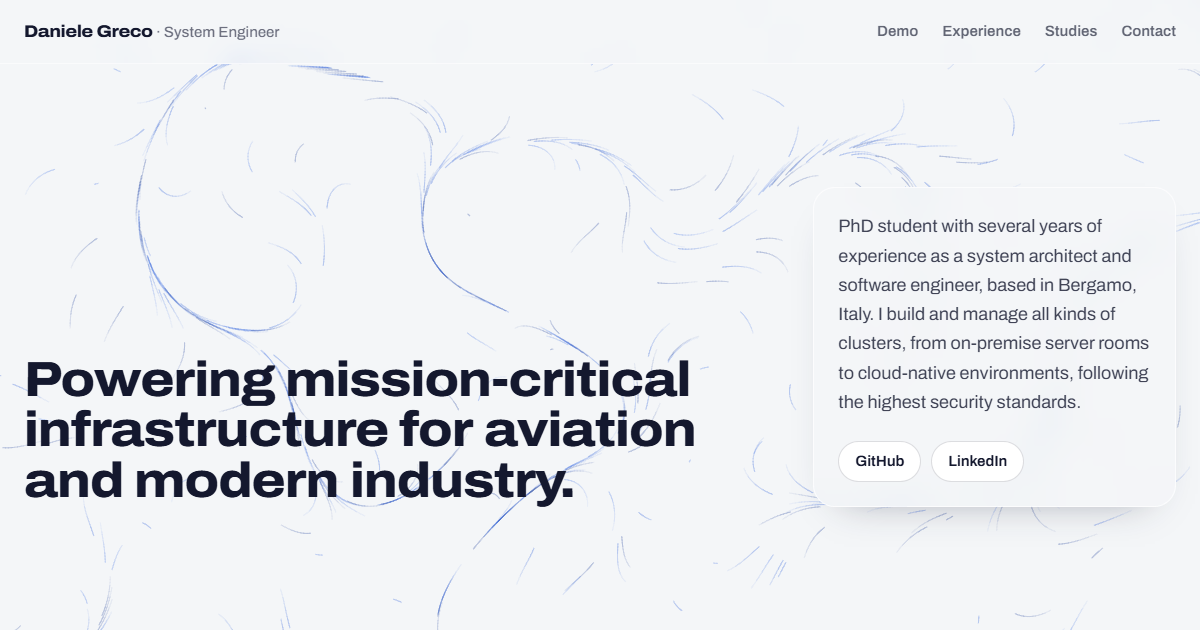
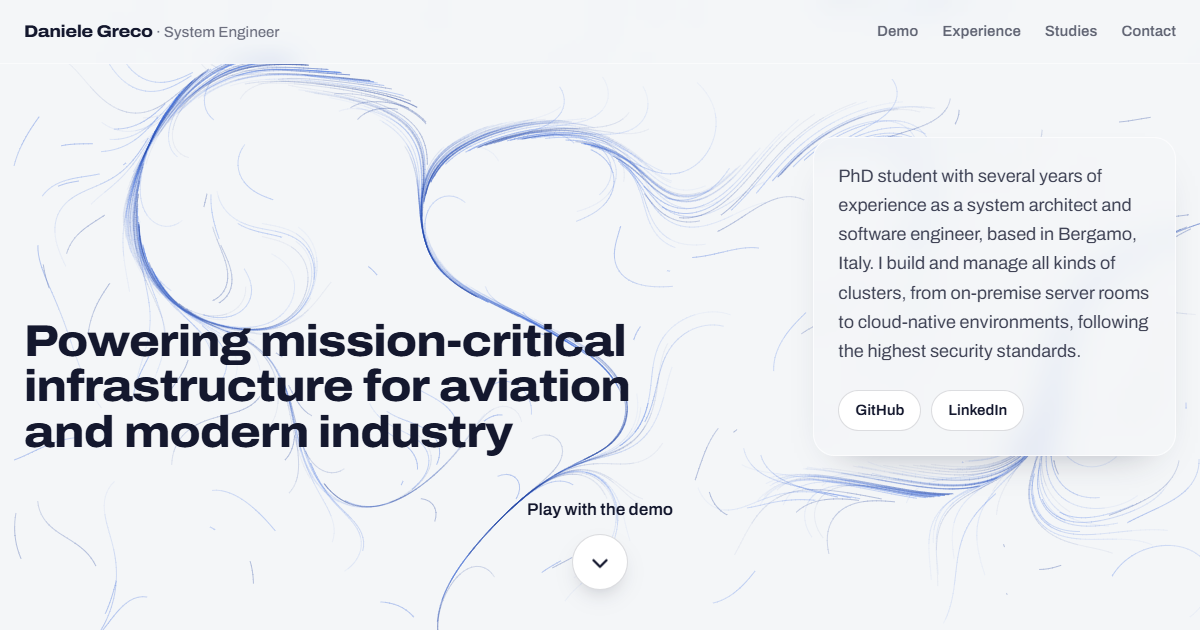
feat: longer background trails, durations and current roles highlighted
Strands now remember a point every 4 px travelled instead of every frame: tails are about four times longer for roughly 40% more drawing, still 60 fps on high-density screens. Experience entries show their duration, the flAi role is System architect, and the flAi and PhD rows are tinted with a blue bar as what I do now. The headline loses its final period and is a little smaller; the demo button is a little bigger.

diff --git a/src/scripts/backgrounds/flow.js b/src/scripts/backgrounds/flow.js
@@ -1,13 +1,15 @@
 // Thin strands following an invisible current: particles move along a noise flow field.
-// Each particle remembers its last positions and draws them as a tail that fades to nothing,
-// and the canvas is cleared every frame, so trails always disappear instead of piling up.
+// Each particle remembers a point every few pixels it travels (not every frame), so a long
+// tail costs few segments, and the tail fades to nothing. The canvas is cleared every frame,
+// so trails always disappear instead of piling up.
 // The pointer pulls the current towards it and turns it into a vortex.
 import { makeNoise } from './noise.js';
 import { runCanvas } from './loop.js';
 
 const noise = makeNoise(3);
-const TAIL = 28; // positions kept per particle
-const BANDS = 4; // the tail is drawn in bands, fainter towards its end
+const TAIL = 40; // points remembered per particle
+const STEP = 4; // px travelled between two remembered points
+const BANDS = 5; // the tail is drawn in bands, fainter towards its end
 const BAND = TAIL / BANDS;
 const RGB = ['35, 87, 214', '74, 120, 228', '31, 63, 153'];
 const GRAVITY = 320; // how far, in px, the pointer bends the current
@@ -15,22 +17,27 @@ const SPEED = 1.5;
 
 export function start(canvas) {
   let count = 0;
-  let xs = new Float32Array(0); // ring buffers: count * TAIL
+  let px = new Float32Array(0); // current position
+  let py = new Float32Array(0);
+  let xs = new Float32Array(0); // remembered points, ring buffers of TAIL per particle
   let ys = new Float32Array(0);
-  let head = new Uint16Array(0); // newest point of each particle
-  let filled = new Uint16Array(0); // valid points of each particle
+  let head = new Uint16Array(0); // newest remembered point
+  let filled = new Uint16Array(0); // how many remembered points are valid
   let age = new Float32Array(0);
   let life = new Float32Array(0);
-  let pull = new Float32Array(0); // how strongly the pointer is bending each particle, smoothed
+  let pull = new Float32Array(0); // how strongly the pointer bends each particle, smoothed
 
   function spawn(i, W, H) {
-    const o = i * TAIL;
-    xs[o] = Math.random() * W;
-    ys[o] = Math.random() * H;
+    const x = Math.random() * W;
+    const y = Math.random() * H;
+    px[i] = x;
+    py[i] = y;
+    xs[i * TAIL] = x;
+    ys[i * TAIL] = y;
     head[i] = 0;
     filled[i] = 1;
     age[i] = 0;
-    life[i] = 90 + Math.random() * 180;
+    life[i] = 200 + Math.random() * 300;
     pull[i] = 0;
   }
 
@@ -38,9 +45,8 @@ export function start(canvas) {
     const f = 1 / 420;
     const near = pointer && pointer.active > 0.001;
     for (let i = 0; i < count; i++) {
-      const o = i * TAIL;
-      const x = xs[o + head[i]];
-      const y = ys[o + head[i]];
+      const x = px[i];
+      const y = py[i];
       const angle = noise(x * f, y * f, t * 0.04) * Math.PI * 2;
       let vx = Math.cos(angle) * SPEED;
       let vy = Math.sin(angle) * SPEED;
@@ -48,7 +54,7 @@ export function start(canvas) {
       if (near) {
         const dx = x - pointer.x;
         const dy = y - pointer.y;
-        const d = Math.hypot(dx, dy) || 1;
+        const d = Math.sqrt(dx * dx + dy * dy) || 1;
         if (d < GRAVITY) {
           k = (1 - d / GRAVITY) ** 1.6 * pointer.active;
           // Around the pointer: swirl (perpendicular) plus a pull towards it.
@@ -64,10 +70,17 @@ export function start(canvas) {
         spawn(i, W, H);
         continue;
       }
-      head[i] = (head[i] + 1) % TAIL;
-      xs[o + head[i]] = nx;
-      ys[o + head[i]] = ny;
-      if (filled[i] < TAIL) filled[i] += 1;
+      px[i] = nx;
+      py[i] = ny;
+      const o = i * TAIL;
+      const lx = nx - xs[o + head[i]];
+      const ly = ny - ys[o + head[i]];
+      if (lx * lx + ly * ly >= STEP * STEP) {
+        head[i] = (head[i] + 1) % TAIL;
+        xs[o + head[i]] = nx;
+        ys[o + head[i]] = ny;
+        if (filled[i] < TAIL) filled[i] += 1;
+      }
     }
   }
 
@@ -77,16 +90,18 @@ export function start(canvas) {
     const paths = Array.from({ length: RGB.length * BANDS * 2 }, () => new Path2D());
     for (let i = 0; i < count; i++) {
       const n = filled[i];
-      if (n < 2) continue;
       const o = i * TAIL;
       const strong = pull[i] > 0.2 ? 1 : 0;
-      const base = ((i % RGB.length) * BANDS) * 2;
+      const base = (i % RGB.length) * BANDS * 2;
+      // From the current position back through the remembered points, newest first.
+      let path = paths[base + strong];
+      path.moveTo(px[i], py[i]);
       let idx = head[i];
-      let band = -1;
-      let path = null;
-      for (let j = 0; j < n - 1; j++) {
-        const b = Math.floor(j / BAND);
+      path.lineTo(xs[o + idx], ys[o + idx]);
+      let band = 0;
+      for (let j = 1; j < n; j++) {
         const prev = (idx - 1 + TAIL) % TAIL;
+        const b = Math.floor(j / BAND);
         if (b !== band) {
           band = b;
           path = paths[base + band * 2 + strong];
@@ -116,6 +131,8 @@ export function start(canvas) {
     maxDpr: 1,
     setup(ctx, W, H) {
       count = Math.round((W * H) / 1600);
+      px = new Float32Array(count);
+      py = new Float32Array(count);
       xs = new Float32Array(count * TAIL);
       ys = new Float32Array(count * TAIL);
       head = new Uint16Array(count);
@@ -123,18 +140,13 @@ export function start(canvas) {
       age = new Float32Array(count);
       life = new Float32Array(count);
       pull = new Float32Array(count);
-      for (let i = 0; i < count; i++) {
-        spawn(i, W, H);
-        age[i] = Math.random() * life[i];
-      }
+      for (let i = 0; i < count; i++) spawn(i, W, H);
+      // Start with tails already grown, so the first frames are not a field of dots.
+      for (let n = 0; n < TAIL * 3; n++) advance(0, W, H, null);
     },
     frame(ctx, t, W, H, dpr, still, pointer) {
       ctx.setTransform(dpr, 0, 0, dpr, 0, 0);
-      if (still) {
-        for (let n = 0; n < TAIL; n++) advance(20, W, H, null);
-      } else {
-        advance(t, W, H, pointer);
-      }
+      advance(still ? 20 : t, W, H, still ? null : pointer);
       draw(ctx, W, H);
     },
   });

diff --git a/src/styles/global.css b/src/styles/global.css
@@ -79,6 +79,29 @@
   backdrop-filter: blur(16px);
 }
 
+/* Experience and studies: what I do now stands out with a blue tint and a bar on the left.
+   The tint bleeds sideways into the panel padding, so the rows keep their height. */
+li.now {
+  position: relative;
+  margin-inline: -0.75rem;
+  padding-inline: 0.75rem;
+  border-radius: 14px;
+  background: rgb(35 87 214 / 0.08);
+}
+li.now::before {
+  content: "";
+  position: absolute;
+  left: 0;
+  top: 0.75rem;
+  bottom: 0.75rem;
+  width: 3px;
+  border-radius: 3px;
+  background: var(--color-traffic);
+}
+li.now .when {
+  color: var(--color-traffic);
+}
+
 /* A tinted glass panel, for short hints that should stand out from the plain ones. */
 .glass.glass-blue {
   border-color: rgb(35 87 214 / 0.2);
